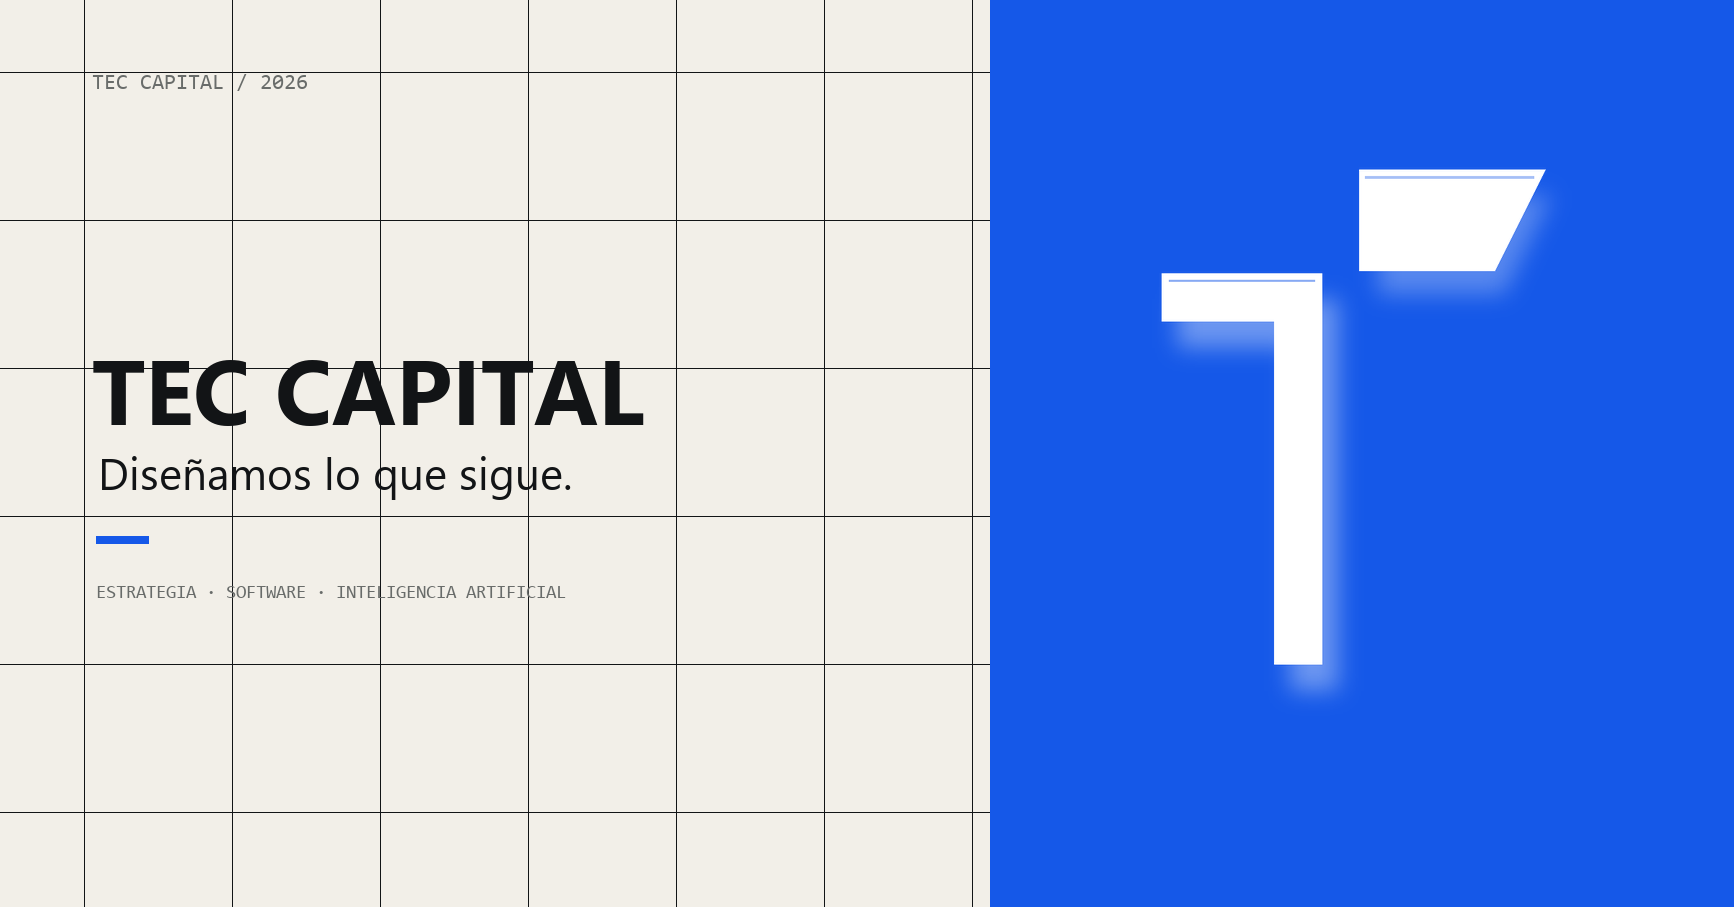
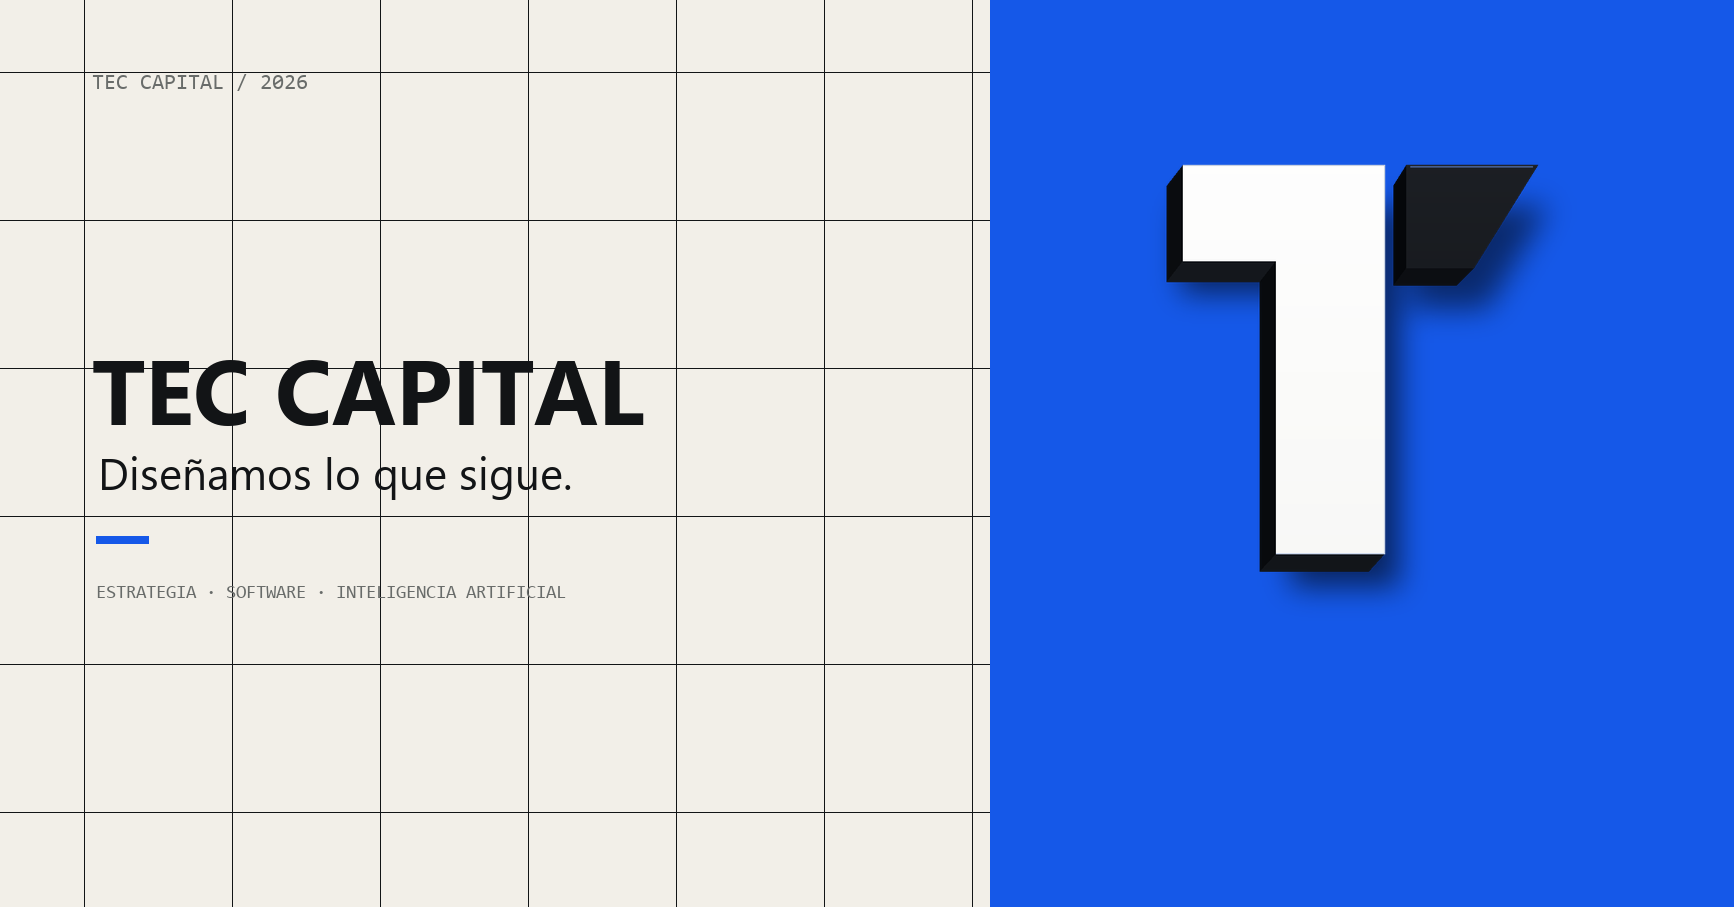
Rebuild TEC mark from dimensional reference

Changed region(s): [[0.654, 0.1544, 0.9031, 0.7718]]

diff --git a/index.html b/index.html
@@ -81,7 +81,7 @@
     .header.scrolled { border-color: var(--line-soft); background: rgba(242, 239, 232, .9); backdrop-filter: blur(18px); }
     .nav { display: grid; grid-template-columns: 1fr auto 1fr; align-items: center; height: 86px; }
     .brand { display: inline-flex; align-items: center; gap: 12px; justify-self: start; position: relative; z-index: 102; }
-    .brand img { width: 30px; height: 42px; object-fit: contain; }
+    .brand img { width: 38px; height: 42px; object-fit: contain; }
     .brand strong { font-family: var(--display); font-size: .92rem; font-weight: 700; letter-spacing: -.02em; }
     .nav-links { display: flex; align-items: center; justify-content: center; gap: 28px; }
     .nav-links a { position: relative; font-size: .73rem; font-weight: 600; }
@@ -171,9 +171,9 @@
     .work-card.blue { color: #fff; border-color: var(--blue); background: var(--blue); }
     .work-meta { display: flex; justify-content: space-between; gap: 20px; font: 400 .61rem var(--mono); text-transform: uppercase; }
     .work-card.blue .work-meta { color: rgba(255, 255, 255, .68); }
-    .work-mark { position: absolute; top: 50%; left: 50%; width: 210px; height: 260px; background: url('assets/img/logo-t-hd.png') center / contain no-repeat; filter: grayscale(1); transform: translate(-50%, -50%) scale(.86); opacity: .52; transition: opacity .4s, transform .5s var(--ease); }
-    .work-card:hover .work-mark { opacity: .72; transform: translate(-50%, -50%) scale(1); }
-    .work-card.blue .work-mark { background-image: url('assets/img/logo-t-white.png'); filter: none; opacity: .9; }
+    .work-mark { position: absolute; top: 50%; left: 50%; width: 210px; height: 260px; background: url('assets/img/logo-t-hd.png') center / contain no-repeat; transform: translate(-50%, -50%) scale(.86); opacity: 1; transition: transform .5s var(--ease); }
+    .work-card:hover .work-mark { opacity: 1; transform: translate(-50%, -50%) scale(1); }
+    .work-card.blue .work-mark { background-image: url('assets/img/logo-t-hd.png'); filter: none; opacity: 1; }
     .work-card.blue:hover .work-mark { opacity: 1; }
     .work-bottom { position: relative; }
     .work-bottom h3 { margin: 0 0 9px; font-family: var(--display); font-size: clamp(2rem, 4vw, 4.2rem); font-weight: 500; line-height: .95; letter-spacing: -.05em; }
@@ -305,7 +305,7 @@
 
   <header class="header" id="header">
     <div class="wrap nav">
-      <a class="brand" href="#inicio" aria-label="TEC CAPITAL, inicio"><img src="assets/img/logo-t-hd.png" alt="" width="652" height="827"><strong>TEC CAPITAL</strong></a>
+      <a class="brand" href="#inicio" aria-label="TEC CAPITAL, inicio"><img src="assets/img/logo-t-hd.png" alt="" width="808" height="853"><strong>TEC CAPITAL</strong></a>
       <nav class="nav-links" id="navLinks" aria-label="Navegación principal">
         <a href="#capacidades">Capacidades</a>
         <a href="#proyectos">Proyectos</a>
@@ -335,7 +335,7 @@
         <div class="hero-art" id="heroArt" aria-label="Símbolo arquitectónico de TEC CAPITAL" role="img">
           <div class="art-grid" aria-hidden="true"></div>
           <span class="art-number">MÉXICO · 18.4637° N</span>
-          <div class="mark-scene" id="markScene" aria-hidden="true"><img src="assets/img/logo-t-hd.png" alt="" width="652" height="827"></div>
+          <div class="mark-scene" id="markScene" aria-hidden="true"><img src="assets/img/logo-t-hd.png" alt="" width="808" height="853"></div>
           <span class="art-note note-a">Estrategia / 01</span>
           <span class="art-note note-b">Ejecución / 02</span>
           <div class="art-caption"><span>Objeto digital</span><span>En movimiento</span></div>
@@ -393,7 +393,7 @@
 
     <section class="poster-section" id="identidad">
       <div class="wrap reveal">
-        <div class="poster-frame"><img src="assets/img/brand-editorial-white.png" alt="Composición editorial de TEC CAPITAL con el símbolo T blanco sobre azul" width="1734" height="907" loading="lazy"></div>
+        <div class="poster-frame"><img src="assets/img/brand-editorial-white.png" alt="Composición editorial de TEC CAPITAL con el símbolo T tridimensional blanco y negro" width="1734" height="907" loading="lazy"></div>
         <div class="poster-caption"><span>TEC CAPITAL · Sistema de identidad 2026</span><span>Claridad / Dirección / Tecnología</span></div>
       </div>
     </section>
@@ -435,7 +435,7 @@
   </main>
 
   <footer>
-    <div class="wrap footer"><a class="brand" href="#inicio"><img src="assets/img/logo-t-white.png" alt="" width="652" height="827"><strong>TEC CAPITAL</strong></a><div class="footer-links"><a href="#capacidades">Capacidades</a><a href="#proyectos">Proyectos</a><a href="#contacto">Contacto</a></div><span>© <span id="year">2026</span></span></div>
+    <div class="wrap footer"><a class="brand" href="#inicio"><img src="assets/img/logo-t-white.png" alt="" width="808" height="853"><strong>TEC CAPITAL</strong></a><div class="footer-links"><a href="#capacidades">Capacidades</a><a href="#proyectos">Proyectos</a><a href="#contacto">Contacto</a></div><span>© <span id="year">2026</span></span></div>
   </footer>
 
   <a class="whatsapp" href="https://wa.me/5212361112213?text=Hola%20TEC%20CAPITAL%2C%20quiero%20platicarles%20un%20proyecto" target="_blank" rel="noopener">Conversemos</a>

diff --git a/make_brand_assets.py b/make_brand_assets.py
@@ -22,35 +22,59 @@ def vertical_gradient(size: tuple[int, int], top: tuple[int, ...], bottom: tuple
 
 
 def extract_logo() -> Image.Image:
-    """Rebuild the supplied stylized T as a crisp, scalable transparent mark."""
+    """Rebuild the supplied dimensional T as a crisp transparent mark."""
     canvas = Image.new("RGBA", (1024, 1024), (0, 0, 0, 0))
 
+    # The reference is a real T: a white frontal face, extruded to the left
+    # and bottom, plus a separate trapezoidal counter-shape on the upper right.
+    # Blue in the supplied render is intentionally replaced by TEC black.
     shadow = Image.new("RGBA", canvas.size, (0, 0, 0, 0))
     shadow_draw = ImageDraw.Draw(shadow)
-    shadow_draw.rectangle((296, 322, 518, 388), fill=(8, 12, 17, 95))
-    shadow_draw.rectangle((452, 322, 518, 864), fill=(8, 12, 17, 95))
-    shadow_draw.polygon(((574, 178), (814, 178), (748, 314), (574, 314)), fill=(8, 12, 17, 72))
-    shadow = shadow.filter(ImageFilter.GaussianBlur(15))
-    canvas.alpha_composite(shadow, (12, 18))
+    shadow_draw.polygon(((225, 196), (599, 196), (599, 850), (414, 850),
+                         (414, 345), (225, 345)), fill=(0, 0, 0, 150))
+    shadow_draw.polygon(((620, 196), (856, 196), (750, 372), (620, 372)),
+                        fill=(0, 0, 0, 135))
+    shadow = shadow.filter(ImageFilter.GaussianBlur(24))
+    canvas.alpha_composite(shadow, (18, 30))
 
-    black_mask = Image.new("L", canvas.size, 0)
-    black_draw = ImageDraw.Draw(black_mask)
-    black_draw.rectangle((286, 304, 508, 370), fill=255)
-    black_draw.rectangle((442, 304, 508, 846), fill=255)
-    black_layer = vertical_gradient(canvas.size, (29, 34, 40, 255), (8, 12, 17, 255))
-    black_layer.putalpha(black_mask)
-    canvas.alpha_composite(black_layer)
+    draw = ImageDraw.Draw(canvas)
 
-    blue_mask = Image.new("L", canvas.size, 0)
-    blue_draw = ImageDraw.Draw(blue_mask)
-    blue_draw.polygon(((560, 160), (818, 160), (748, 300), (560, 300)), fill=255)
-    blue_layer = vertical_gradient(canvas.size, (41, 112, 214, 255), (18, 76, 173, 255))
-    blue_layer.putalpha(blue_mask)
-    canvas.alpha_composite(blue_layer)
+    # Black depth of the T. The facets make the extrusion legible even at
+    # navigation-logo size without making the mark feel glossy or artificial.
+    draw.polygon(((246, 155), (218, 191), (218, 356), (246, 320)),
+                 fill=(10, 12, 15, 255))
+    draw.polygon(((218, 356), (378, 356), (406, 320), (246, 320)),
+                 fill=(20, 23, 28, 255))
+    draw.polygon(((378, 356), (406, 320), (406, 824), (378, 854)),
+                 fill=(8, 10, 13, 255))
+    draw.polygon(((378, 854), (565, 854), (592, 824), (406, 824)),
+                 fill=(18, 21, 25, 255))
 
-    highlight = ImageDraw.Draw(canvas)
-    highlight.line((568, 170, 802, 170), fill=(126, 177, 242, 160), width=4)
-    highlight.line((296, 314, 498, 314), fill=(81, 89, 99, 135), width=3)
+    # Fully opaque white frontal face, following the exact T silhouette.
+    face_mask = Image.new("L", canvas.size, 0)
+    face_draw = ImageDraw.Draw(face_mask)
+    face_draw.polygon(((246, 155), (592, 155), (592, 824), (406, 824),
+                       (406, 320), (246, 320)), fill=255)
+    face = vertical_gradient(canvas.size, (255, 255, 255, 255), (246, 246, 244, 255))
+    face.putalpha(face_mask)
+    canvas.alpha_composite(face)
+    draw = ImageDraw.Draw(canvas)
+    draw.line(((246, 155), (592, 155), (592, 824), (406, 824)),
+              fill=(221, 222, 220, 210), width=2)
+
+    # Separate upper-right counter-shape, now black instead of blue.
+    draw.polygon(((630, 155), (608, 190), (608, 362), (630, 332)),
+                 fill=(5, 7, 10, 255))
+    draw.polygon(((608, 362), (716, 362), (746, 332), (630, 332)),
+                 fill=(12, 14, 18, 255))
+    cap_mask = Image.new("L", canvas.size, 0)
+    cap_draw = ImageDraw.Draw(cap_mask)
+    cap_draw.polygon(((630, 155), (856, 155), (746, 332), (630, 332)), fill=255)
+    cap = vertical_gradient(canvas.size, (31, 34, 39, 255), (10, 12, 16, 255))
+    cap.putalpha(cap_mask)
+    canvas.alpha_composite(cap)
+    draw = ImageDraw.Draw(canvas)
+    draw.line(((637, 158), (847, 158)), fill=(86, 90, 98, 180), width=3)
 
     bbox = canvas.getchannel("A").getbbox()
     if not bbox:
@@ -64,8 +88,10 @@ def extract_logo() -> Image.Image:
     )
     cropped = canvas.crop(crop_box)
     cropped.save(LOGO_OUT, optimize=True)
+    # Single-colour inverse keeps the exact silhouette readable on the dark
+    # footer while the dimensional master is used everywhere else.
     white = Image.new("RGBA", cropped.size, (255, 255, 255, 0))
-    white.putalpha(cropped.getchannel("A"))
+    white.putalpha(cropped.getchannel("A").point(lambda a: 255 if a > 72 else a))
     white.save(LOGO_WHITE_OUT, optimize=True)
     return cropped
 
@@ -80,7 +106,7 @@ def create_poster(logo: Image.Image) -> None:
     poster = Image.new("RGBA", (width, height), paper)
     draw = ImageDraw.Draw(poster)
 
-    # Restrained editorial grid and a solid cobalt field for the white mark.
+    # Restrained editorial grid and a solid cobalt field for the dimensional mark.
     line = (18, 20, 22, 22)
     panel_x = 990
     for x in range(84, panel_x, 148):
@@ -103,7 +129,7 @@ def create_poster(logo: Image.Image) -> None:
         fill=muted,
     )
 
-    mark = Image.open(LOGO_WHITE_OUT).convert("RGBA")
+    mark = Image.open(LOGO_OUT).convert("RGBA")
     mark.thumbnail((470, 610), Image.Resampling.LANCZOS)
     poster.alpha_composite(mark, (panel_x + (width - panel_x - mark.width) // 2, 145))
     poster.convert("RGB").save(POSTER_OUT, quality=94, optimize=True)
